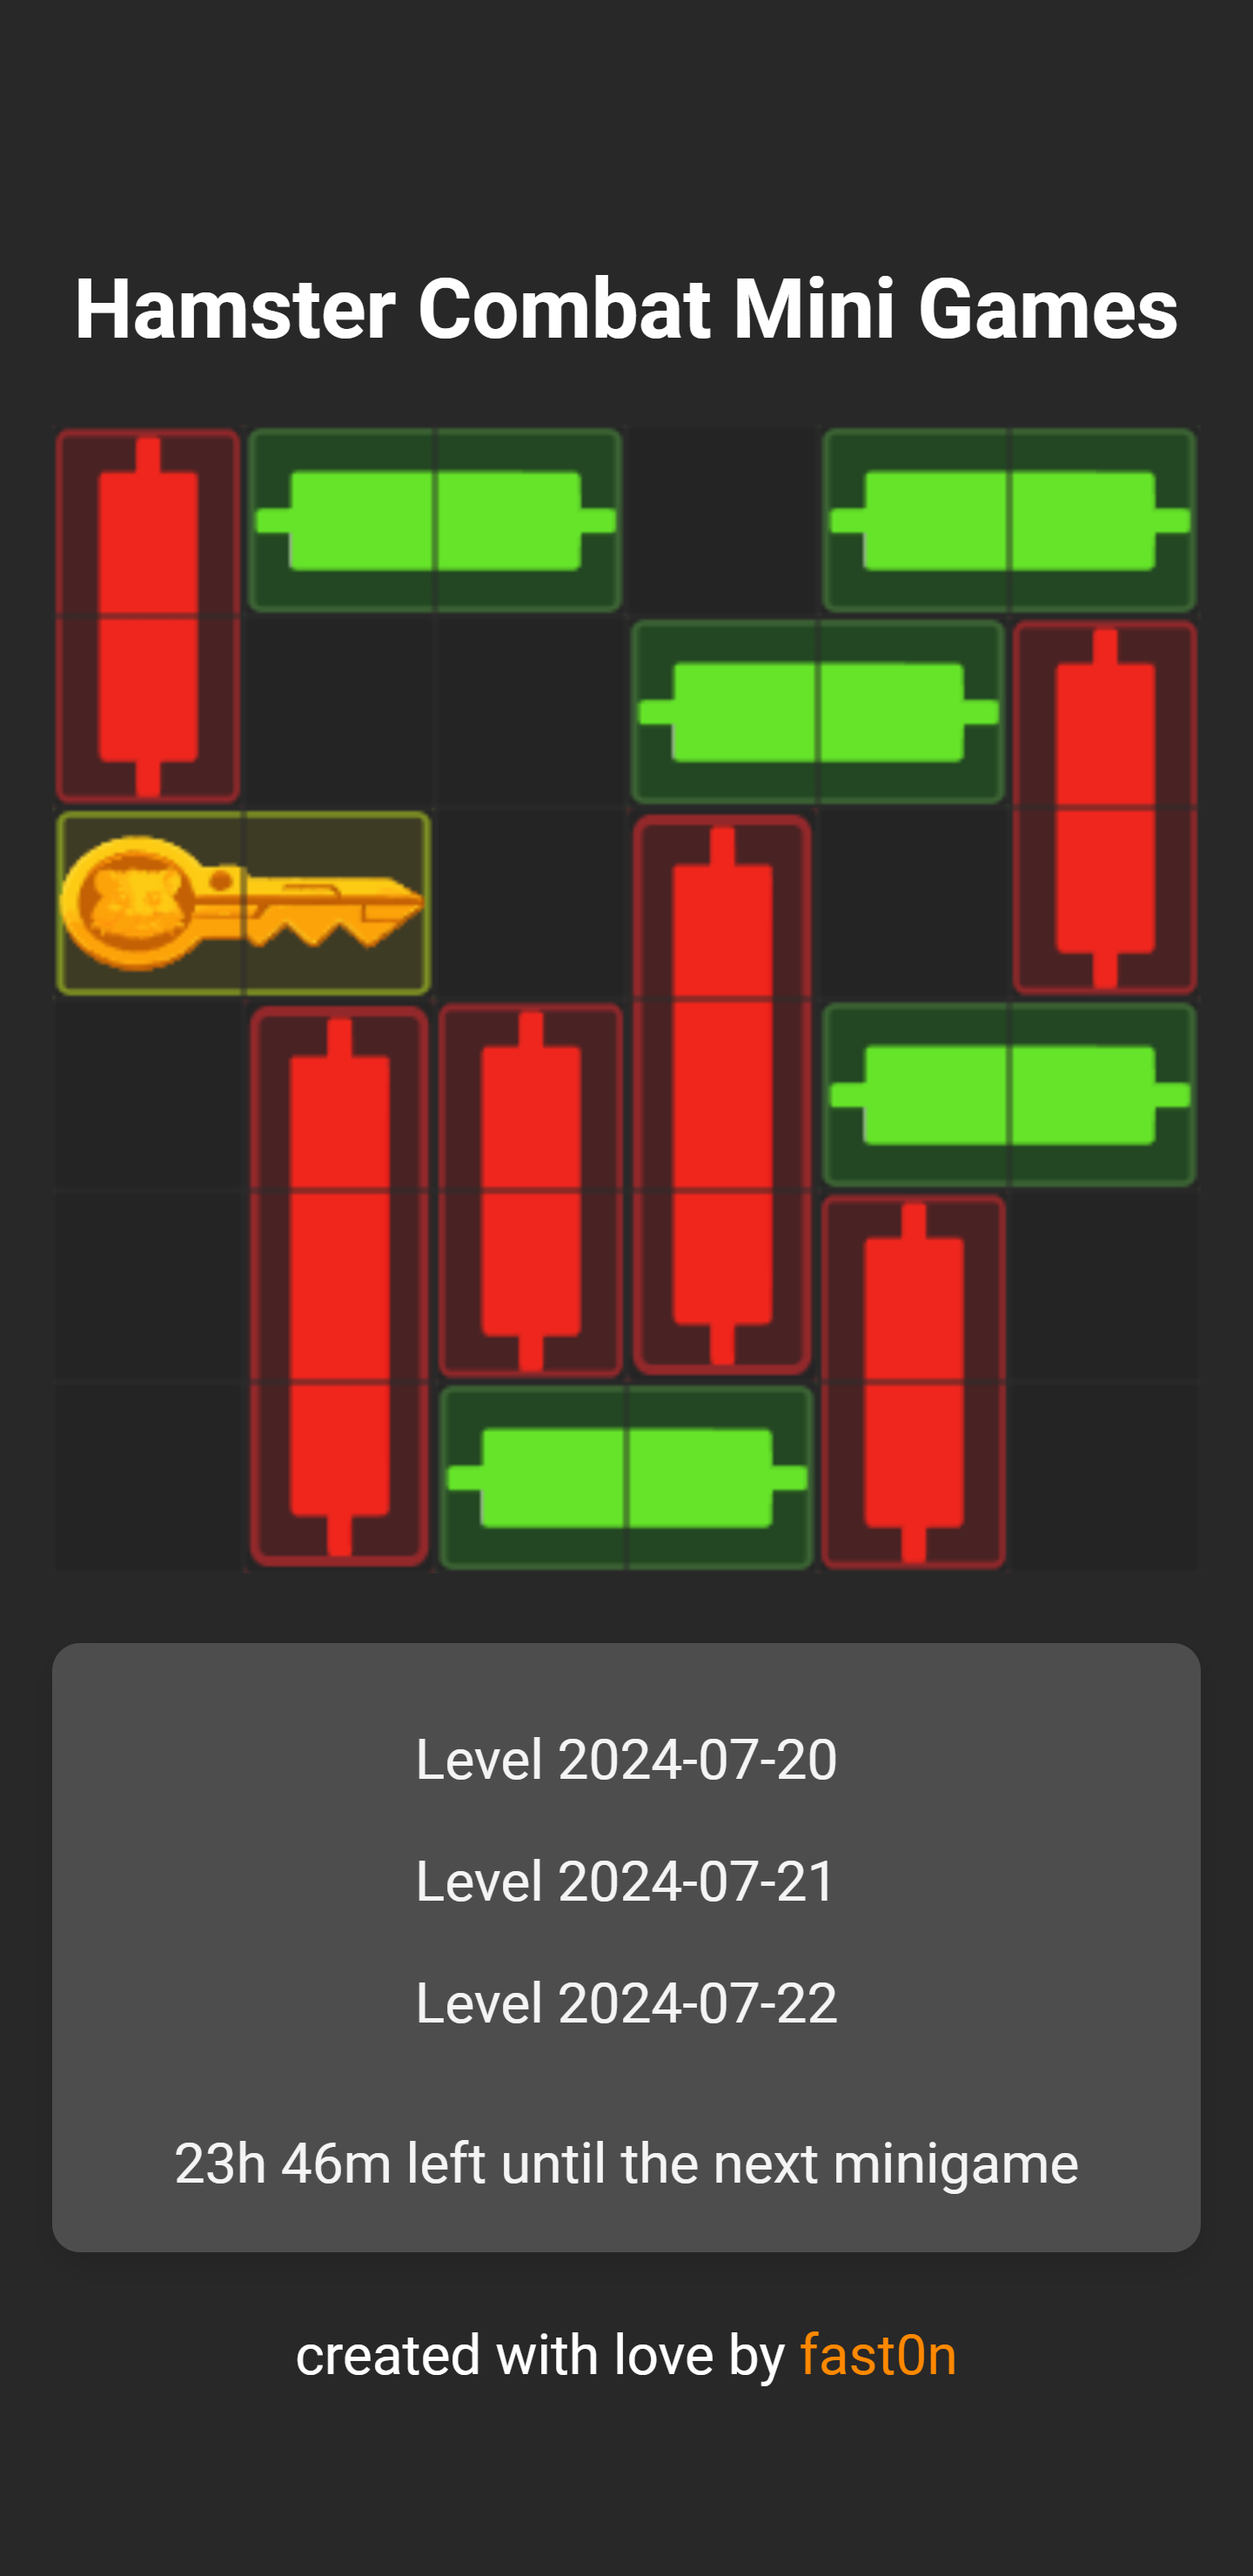
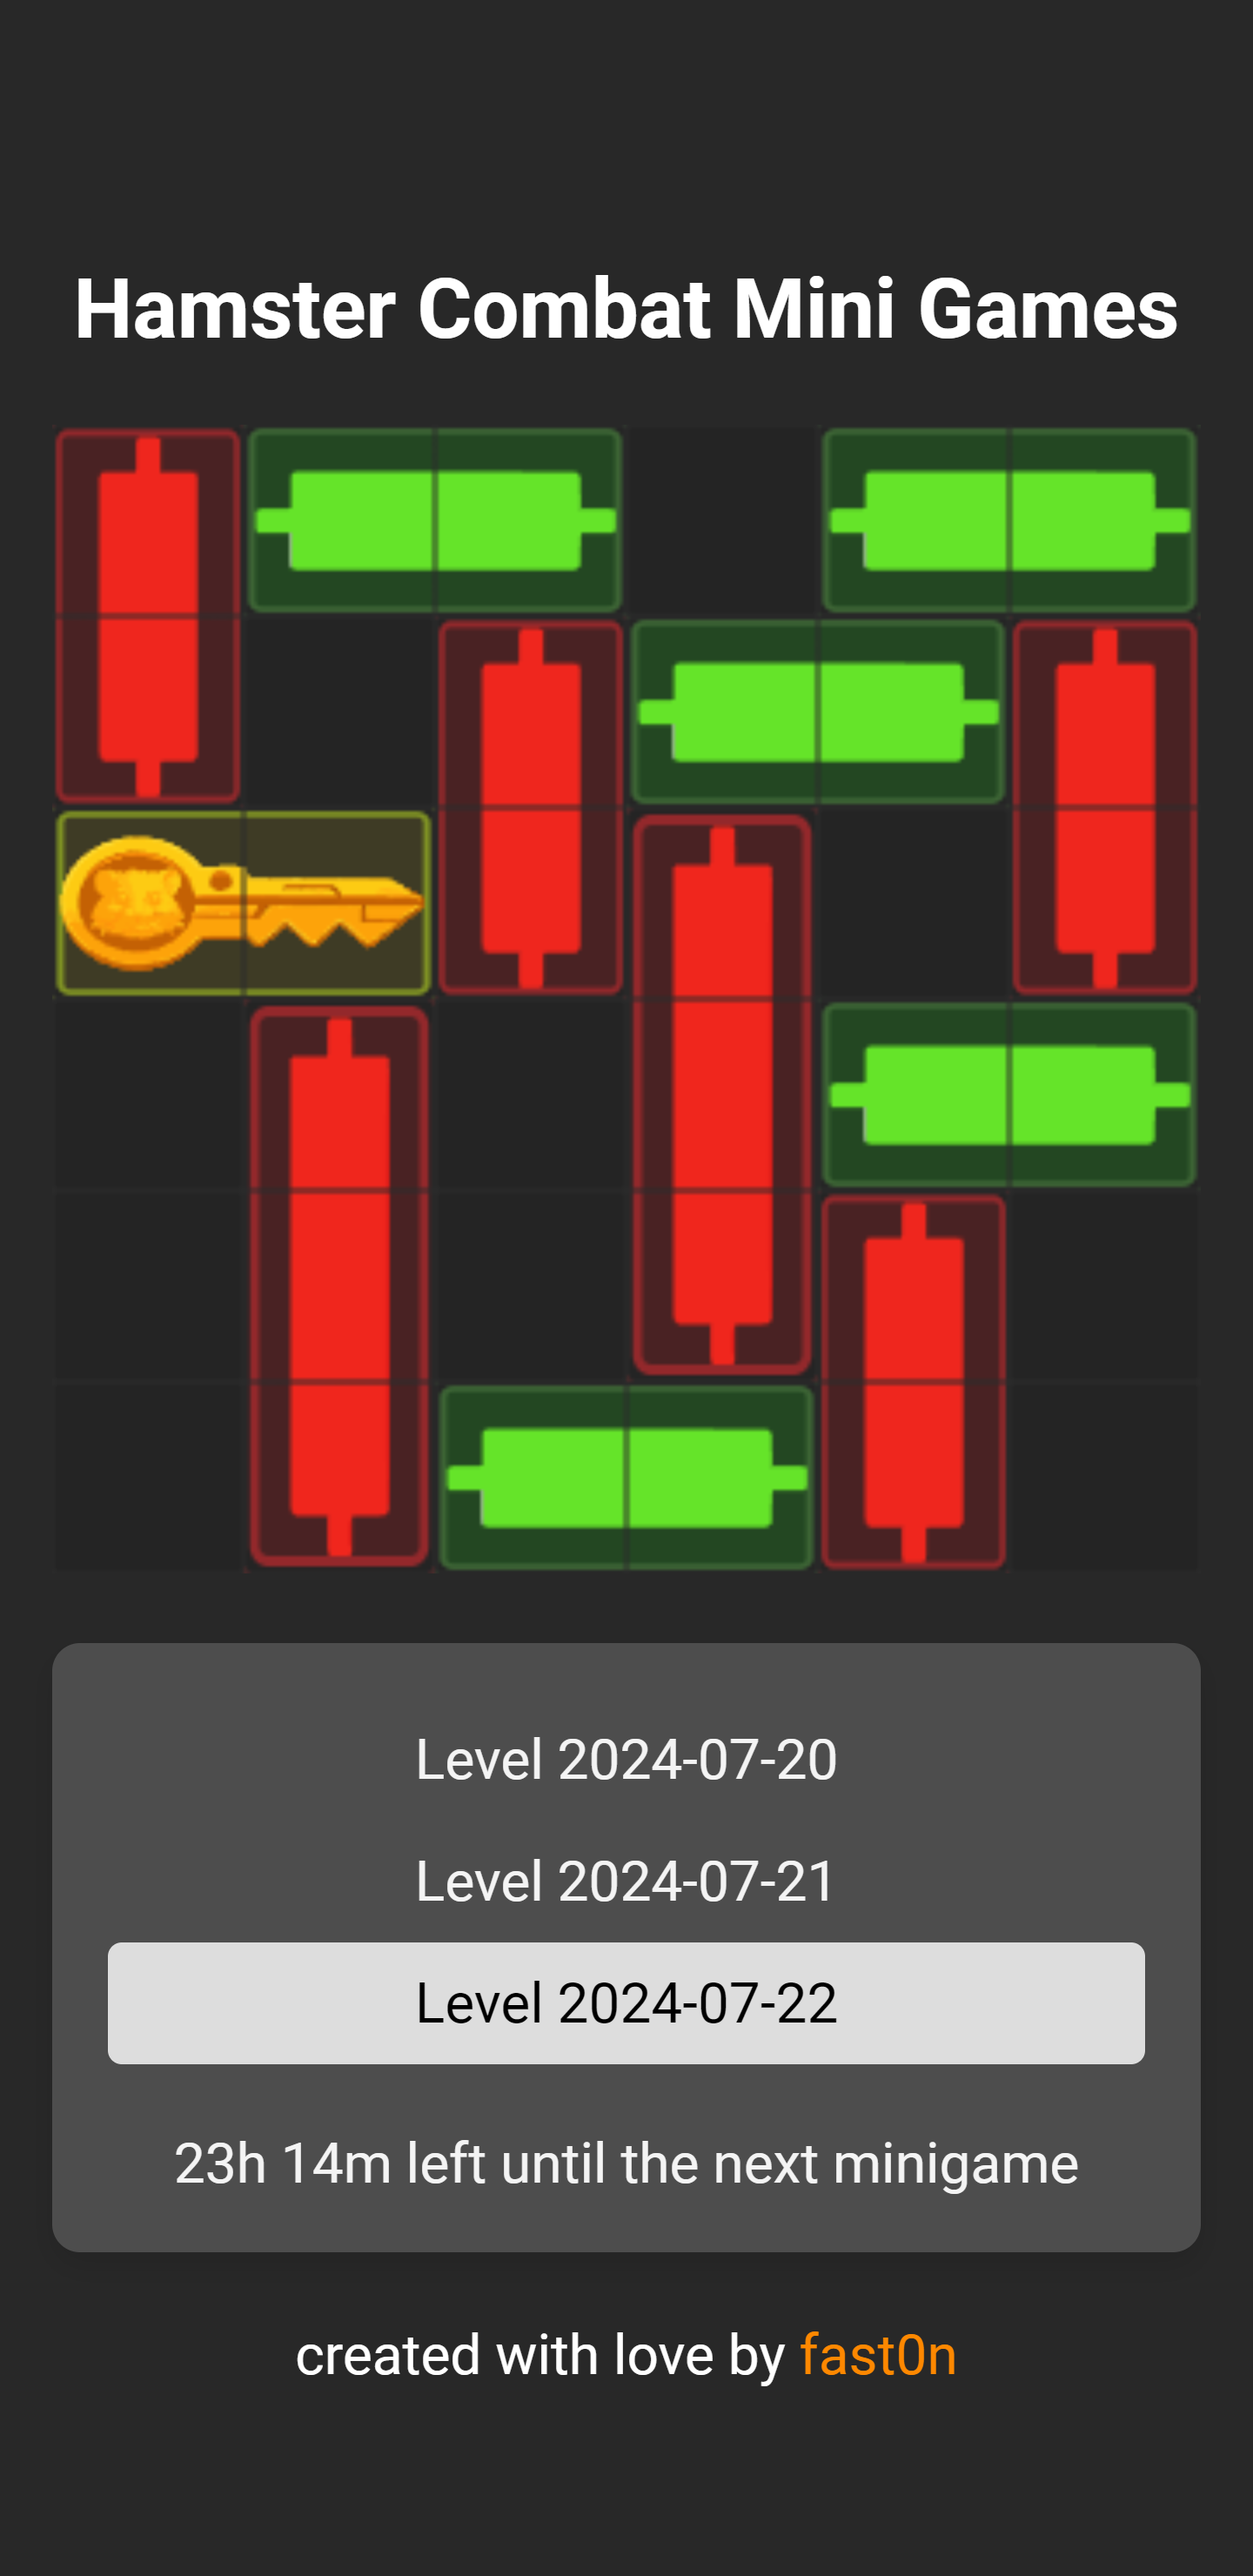
fixed position level 24-07-22

Changed region(s): [[0.0625, 0.7459, 0.9375, 0.8081], [0.3438, 0.2176, 0.5, 0.5595], [0.2188, 0.8392, 0.25, 0.8703]]

diff --git a/script.js b/script.js
@@ -72,7 +72,7 @@ let blocks = [
     { x: 0, y: 2, color: 'key', width: 2, height: 1 },
     { x: 3, y: 2, color: 'red2', width: 1, height: 3 },
     { x: 5, y: 1, color: 'red', width: 1, height: 2 },
-    { x: 2, y: 3, color: 'red', width: 1, height: 2 },
+    { x: 2, y: 1, color: 'red', width: 1, height: 2 },
     { x: 4, y: 3, color: 'green', width: 2, height: 1 },
     { x: 1, y: 3, color: 'red2', width: 1, height: 3 },
     { x: 2, y: 5, color: 'green', width: 2, height: 1 },

diff --git a/level/20240722.js b/level/20240722.js
@@ -6,7 +6,7 @@ blocks = [
     { x: 0, y: 2, color: 'key', width: 2, height: 1 },
     { x: 3, y: 2, color: 'red2', width: 1, height: 3 },
     { x: 5, y: 1, color: 'red', width: 1, height: 2 },
-    { x: 2, y: 3, color: 'red', width: 1, height: 2 },
+    { x: 2, y: 1, color: 'red', width: 1, height: 2 },
     { x: 4, y: 3, color: 'green', width: 2, height: 1 },
     { x: 1, y: 3, color: 'red2', width: 1, height: 3 },
     { x: 2, y: 5, color: 'green', width: 2, height: 1 },
